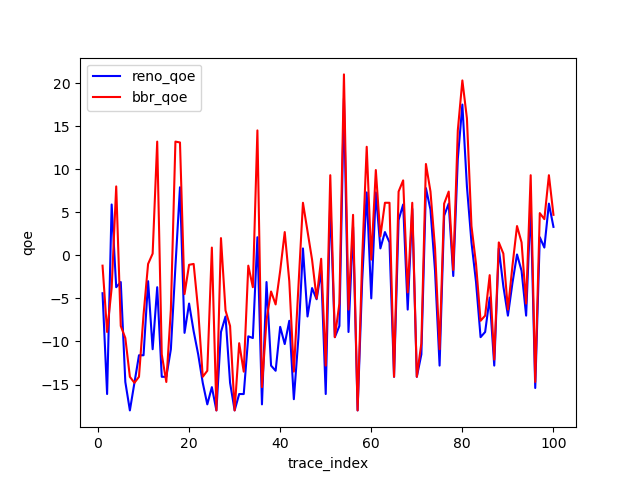
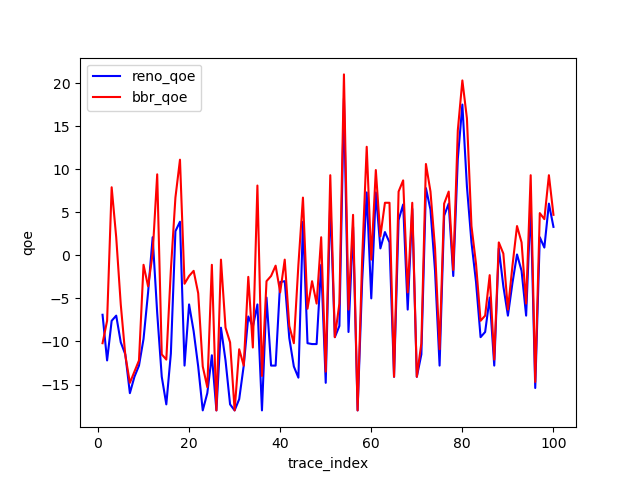
a little change of qoe_difference

Changed region(s): [[0.1562, 0.2812, 0.5312, 0.8438]]

diff --git a/qoe_difference.py b/qoe_difference.py
@@ -66,9 +66,10 @@ if __name__ == '__main__':
         bbr_arr.append(qoe_difference[1])
 
     plt_qoe(reno_arr, bbr_arr, pic, idx, size)
-
+    MIN_QUEUE = MAX_QUEUE = queue_size = 55
     with open("qoemodel/qoe_difference.log","w+") as f:
-        strs = ["trace numbers : 50\n", "buffer: MAX_QUEUE = 50, MIN_QUEUE = 50\n",
+        strs = ["trace numbers : 50\n", "buffer: MAX_QUEUE = MIN_QUEUE = "+
+                str(queue_size) + "\n",
                 "bw : 0.1 ~ 2 MB \n",
                 "qoe = " + str(x) + " * priority + "+ str(1 - x) + " * deadline\n",
                 str(reno_arr) + "\n",
